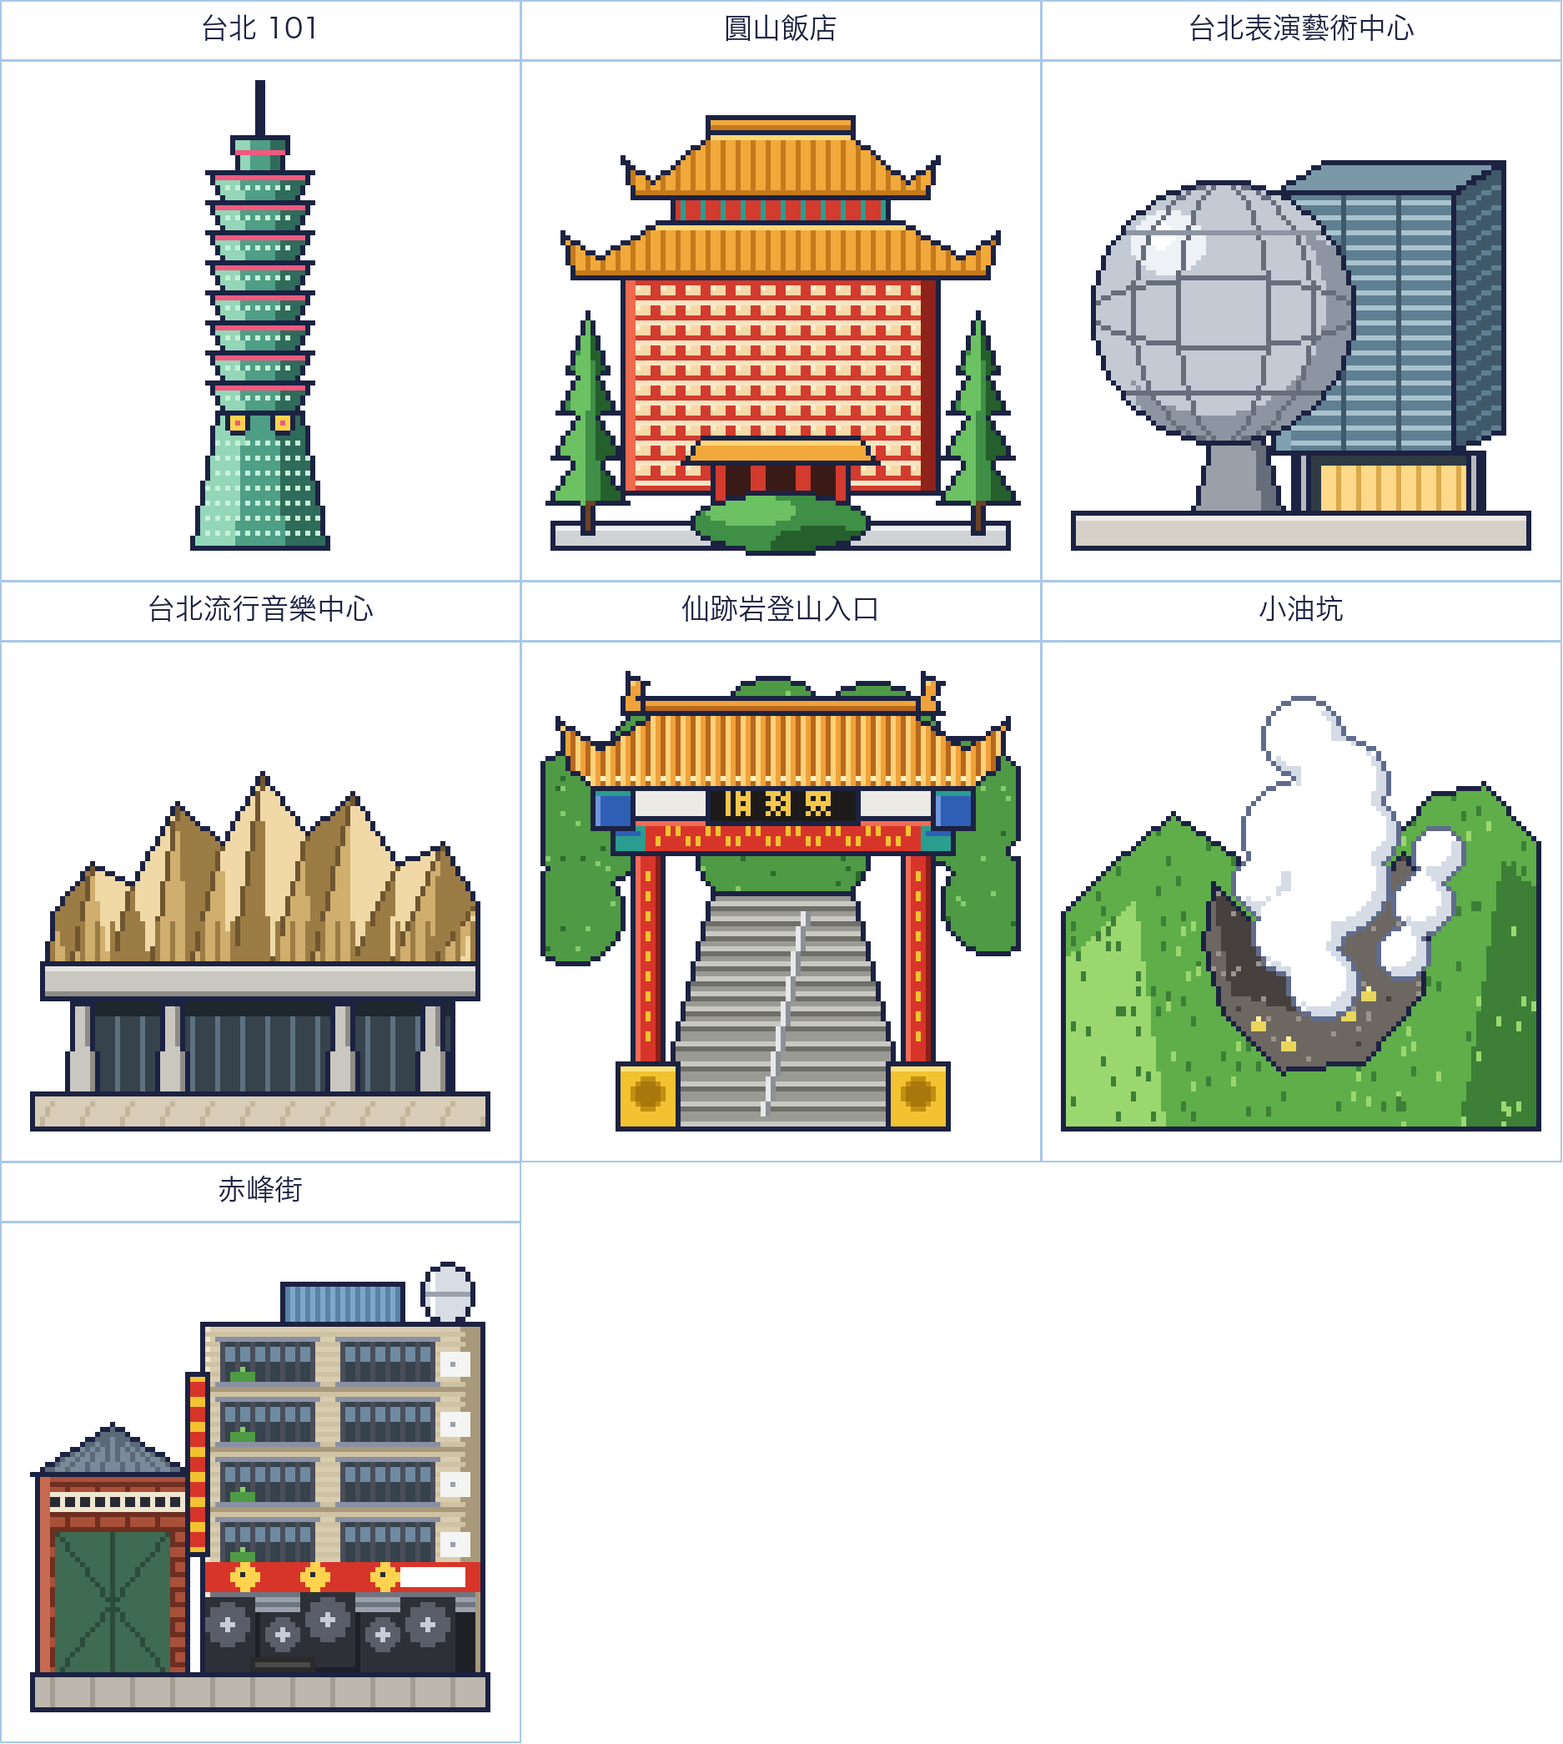
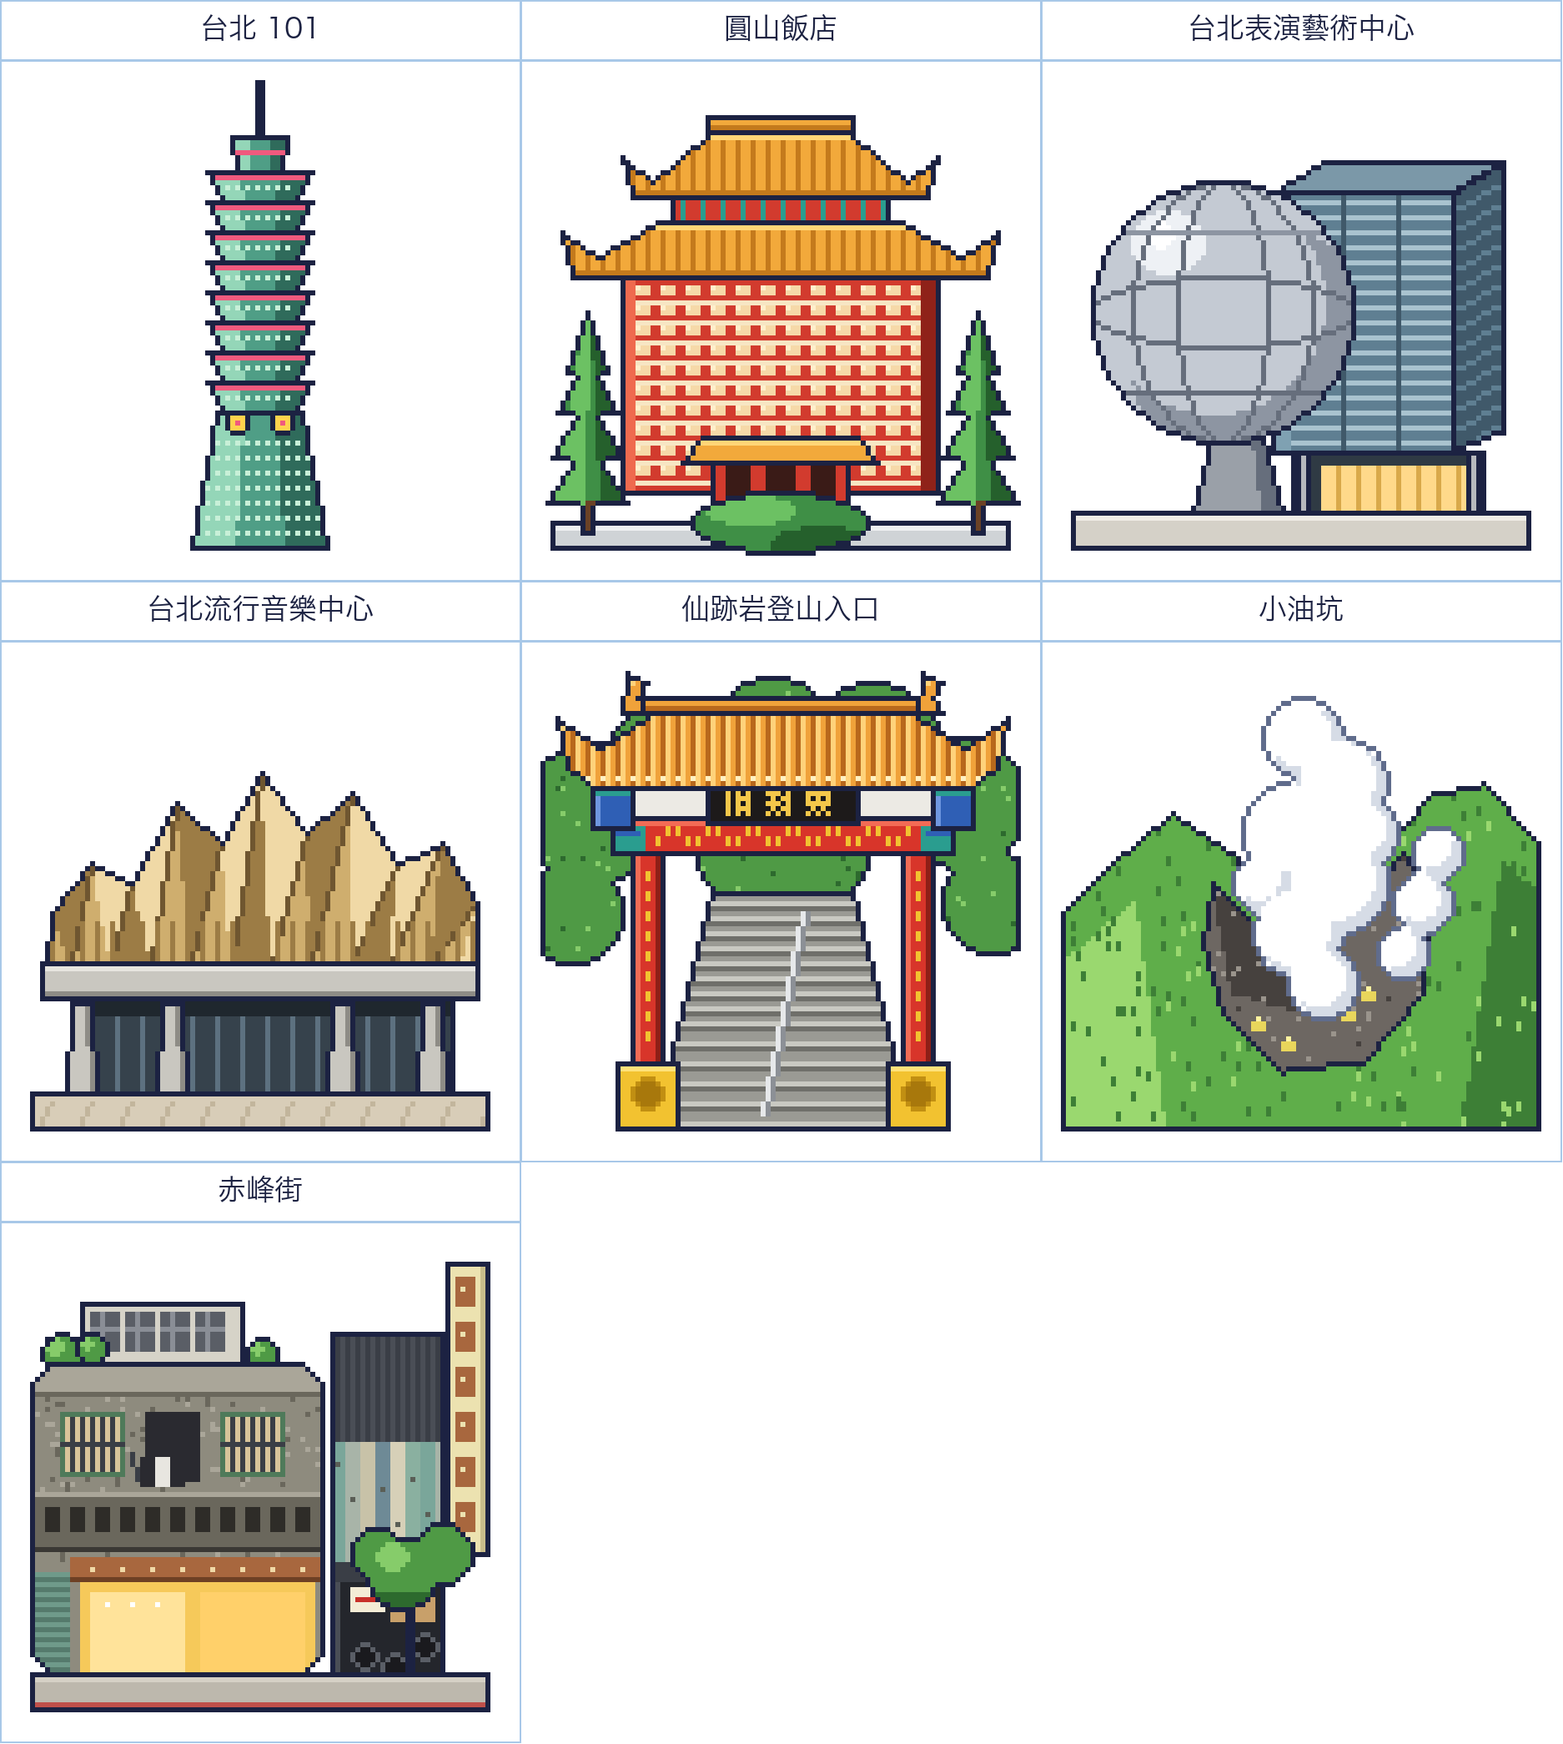
赤峰街關卡依實景照片重畫
- 地標：三層洗石子轉角老屋（綠框鐵窗、通風孔陽台、頂樓加蓋與植栽、一樓暖黃小店）、
  深灰浪板加舊木板拼貼的汽車材料行與米黃直式大招牌、路樹
- 街景新增 wood_shophouse（木格玻璃拉門、紅磚柱、綠色浪板雨遮）與 plant_balcony（陽台長滿植物、一樓咖啡店）
- 地面改為 alley：人行道紅線、柏油路白色箭頭；天空改陰天淡色

Changed region(s): [[0.0, 0.7153, 0.3404, 0.9952]]

diff --git a/landmarks.py b/landmarks.py
@@ -451,86 +451,105 @@ def xiaoyoukeng():
     return s.img
 
 
-# ---------------------------------------------------------------- 7. 赤峰街（老公寓一樓汽車音響行＋倉庫）
+# ---------------------------------------------------------------- 7. 赤峰街（洗石子轉角老屋＋汽車材料行）
 def chifeng():
     s = Sprite()
-    tile, tilel, tiled = c('#d9cdb0'), c('#efe6cf'), c('#a8997a')
-    brick, brickl, brickd = c('#a8503a'), c('#c86a50'), c('#6e2e20')
-    iron, ironl = c('#4a4e5a'), c('#8a90a4')
+    rnd = random.Random(7)
+    wash, washl, washd = c('#8e8b7e'), c('#aaa699'), c('#6a675c')         # 洗石子外牆
+    green = c('#4f7a5a')
+    leaf, leafl, leafd = c('#4f9a45'), c('#86cc6a'), c('#2d6a2e')
 
-    # 人行道
+    # 騎樓地坪
     s.part(lambda d: d.rectangle([2, 86, 93, 93], fill=c('#bdb8ad')),
-           lambda d, _: [d.line([x, 87, x, 93], fill=c('#a29d92')) for x in range(6, 96, 8)])
+           lambda d, _: (d.line([2, 87, 93, 87], fill=c('#d6d1c6')), d.line([2, 92, 93, 92], fill=c('#c0504a'))))
 
-    # 左：紅磚倉庫，鐵皮山牆屋頂、大拉門
-    s.part(lambda d: d.polygon([(2, 46), (18, 36), (34, 46)], fill=c('#7a8a9a')),
-           lambda d, _: [d.line([x, 46, 18, 36], fill=c('#5a6878')) for x in range(4, 34, 4)])
+    # ── 左：三層洗石子轉角老屋 ──
+    # 頂樓加蓋（格柵窗）與屋頂植栽
+    s.part(lambda d: d.rectangle([12, 12, 44, 24], fill=c('#d6d3c8')),
+           lambda d, _: [(d.rectangle([x, 14, x + 5, 21], fill=c('#5a5e66')),
+                          d.line([x, 17, x + 5, 17], fill=c('#8a8e96')), d.line([x + 2, 14, x + 2, 21], fill=c('#8a8e96')))
+                         for x in range(14, 42, 7)])
+    for (x, y, r) in [(8, 22, 4), (14, 21, 3), (48, 22, 3)]:
+        s.part(lambda d, x=x, y=y, r=r: d.ellipse([x - r, y - r, x + r, y + r], fill=leaf),
+               lambda d, _, x=x, y=y, r=r: d.ellipse([x - r + 1, y - r + 1, x, y], fill=leafl))
 
-    def wh(d):
-        d.rectangle([3, 46, 33, 86], fill=brick)
+    def house(d):
+        d.rounded_rectangle([2, 24, 60, 86], radius=6, fill=wash)
 
-    def wh_sh(d, _):
-        for y in range(48, 86, 3):
-            d.line([3, y, 33, y], fill=brickd)
-            for x in range(3 + (y // 3 % 2) * 3, 34, 6):
-                d.line([x, y + 1, x, y + 2], fill=brickd)
-        d.rectangle([3, 50, 33, 53], fill=c('#efe6cf'))                       # 白色字帶
-        for x in range(6, 31, 3):
-            d.rectangle([x, 51, x + 1, 52], fill=c('#2a2a34'))
-        d.rectangle([14, 40, 22, 44], fill=c('#ffd98a'))                      # 山牆小窗
-        d.rectangle([7, 58, 29, 86], fill=c('#3f6b52'))                       # 綠色大拉門
-        d.line([7, 58, 29, 86], fill=c('#2c4c3a')); d.line([29, 58, 7, 86], fill=c('#2c4c3a'))
-        d.line([18, 58, 18, 86], fill=c('#2c4c3a'))
-        d.rectangle([4, 47, 5, 85], fill=brickl)
-    s.part(wh, wh_sh)
+    def house_sh(d, _):
+        for _ in range(260):                                                 # 洗石子的顆粒
+            x, y = rnd.randrange(3, 60), rnd.randrange(25, 64)
+            d.point((x, y), fill=washl if rnd.random() < .5 else washd)
+        d.rectangle([2, 24, 60, 30], fill=washl)                             # 屋頂女兒牆（圓角）
+        d.line([2, 30, 60, 30], fill=washd)
+        # 三樓：綠框鐵窗、中間深色門洞
+        for wx in (8, 40):
+            d.rectangle([wx, 34, wx + 12, 46], fill=c('#d8c49a'))
+            d.rectangle([wx, 34, wx + 12, 46], outline=green)
+            for bx in range(wx + 2, wx + 12, 2):
+                d.line([bx, 35, bx, 45], fill=c('#3a3e46'))
+            d.line([wx, 40, wx + 12, 40], fill=c('#3a3e46'))
+        d.rectangle([25, 34, 35, 47], fill=c('#2a2a30'))
+        d.line([22, 42, 23, 47], fill=c('#3a3e46'))                         # 曬衣架與衣服
+        for x, col in [(24, '#2a2a30'), (27, '#e8e6e0'), (30, '#2a2a30')]:
+            d.rectangle([x, 43, x + 2, 48], fill=c(col))
+        # 二樓陽台：女兒牆上一排通風孔
+        d.rectangle([2, 50, 60, 60], fill=washd)
+        d.line([2, 50, 60, 50], fill=washl)
+        for x in range(5, 58, 5):
+            d.rectangle([x, 53, x + 2, 57], fill=c('#2e2c28'))
+        d.line([2, 61, 60, 61], fill=c('#3a3834'))
+        # 一樓：咖啡色遮陽棚、暖黃燈光的小店
+        d.rectangle([10, 63, 60, 67], fill=c('#a8673e'))
+        d.line([10, 67, 60, 67], fill=c('#6e4024'))
+        for x in range(14, 58, 6):
+            d.point((x, 65), fill=c('#f0d9a6'))
+        d.rectangle([12, 68, 58, 86], fill=c('#f6c95a'))
+        d.rectangle([14, 70, 32, 86], fill=c('#ffe39a'))
+        d.rectangle([36, 70, 56, 86], fill=c('#ffd06a'))
+        for x in (17, 22, 27):
+            d.point((x, 72), fill=c('#ffffff'))
+        d.rectangle([3, 66, 9, 86], fill=c('#6f9a8a'))                       # 旁邊的綠色鐵捲門
+        for y in range(67, 86, 2):
+            d.line([3, y, 9, y], fill=c('#557a6c'))
+    s.part(house, house_sh)
 
-    # 右：四層老公寓，頂樓加蓋與水塔
-    s.part(lambda d: d.rectangle([52, 8, 76, 16], fill=c('#7ea6c8')),
-           lambda d, _: [d.line([x, 8, x, 16], fill=c('#5a82a6')) for x in range(53, 76, 2)])
-    s.part(lambda d: d.ellipse([80, 4, 90, 16], fill=c('#d8dce4')),
-           lambda d, _: (d.line([82, 6, 82, 14], fill=c('#ffffff')), d.line([80, 10, 90, 10], fill=c('#9aa0ac'))))
+    # ── 右：深灰浪板＋舊木板拼貼外牆的汽車材料行 ──
+    def shop(d):
+        d.rectangle([62, 18, 84, 86], fill=c('#4a4e56'))
 
-    def apt(d):
-        d.rectangle([36, 16, 92, 86], fill=tile)
+    def shop_sh(d, _):
+        for x in range(63, 84, 2):
+            d.line([x, 18, x, 40], fill=c('#3a3e46'))                         # 浪板
+        planks = ['#7aa69a', '#a8b4a8', '#c8c2a8', '#6e8a96', '#d6d0b8', '#8ab0a0']
+        for k, x in enumerate(range(62, 84, 3)):                              # 舊木板拼貼
+            d.rectangle([x, 40, x + 2, 64], fill=c(planks[k % len(planks)]))
+            d.point((x + 1, 44 + (k * 7) % 16), fill=c('#5a5e56'))
+        d.rectangle([62, 64, 84, 67], fill=c('#3a3e46'))                     # 騎樓遮棚
+        d.rectangle([64, 68, 84, 86], fill=c('#24262c'))                     # 店內零件
+        for (x, y) in [(66, 80), (72, 82), (78, 78)]:
+            d.ellipse([x, y, x + 5, y + 5], fill=c('#1a1a1e'), outline=c('#5a5e66'))
+        d.rectangle([74, 70, 82, 75], fill=c('#c8a06a'))
+        d.rectangle([66, 69, 72, 73], fill=c('#f4ecd6'))                     # 小招牌
+        d.line([67, 71, 71, 71], fill=c('#c8302a'))
+    s.part(shop, shop_sh)
 
-    def apt_sh(d, _):
-        d.rectangle([88, 16, 92, 86], fill=tiled)
-        d.line([37, 16, 37, 86], fill=tilel)
-        for y in range(18, 66, 2):                                           # 磁磚縫
-            d.line([36, y, 88, y], fill=c('#cfc2a3'))
-        for fy in (18, 30, 42, 54):                                          # 每層：鐵窗、冷氣、盆栽
-            d.line([36, fy + 11, 92, fy + 11], fill=tiled)
-            for wx in (40, 64):
-                d.rectangle([wx, fy + 2, wx + 18, fy + 9], fill=c('#36424c'))
-                d.rectangle([wx + 1, fy + 3, wx + 17, fy + 5], fill=c('#6e8aa0'))
-                for bx in range(wx, wx + 19, 3):
-                    d.line([bx, fy + 1, bx, fy + 10], fill=iron)
-                d.line([wx - 1, fy + 1, wx + 19, fy + 1], fill=ironl)
-                d.line([wx - 1, fy + 10, wx + 19, fy + 10], fill=ironl)
-            d.rectangle([84, fy + 4, 89, fy + 8], fill=c('#f4f4f2'))           # 冷氣室外機
-            d.point((86, fy + 6), fill=c('#9aa0ac'))
-            d.rectangle([42, fy + 8, 46, fy + 9], fill=c('#4f9a45'))           # 盆栽
-            d.point((44, fy + 7), fill=c('#86cc6a'))
-        # 一樓：汽車音響行
-        d.rectangle([36, 64, 92, 69], fill=c('#d8352a'))                      # 紅色招牌
-        for x in (42, 56, 70):
-            d.ellipse([x, 64, x + 5, 69], fill=c('#ffd34d'))                  # 喇叭圖示
-            d.point((x + 2, 66), fill=c('#2a2a34'))
-        d.rectangle([76, 65, 88, 68], fill=c('#ffffff'))
-        d.rectangle([38, 70, 90, 86], fill=c('#1e2028'))                      # 店內
-        for y in range(70, 74):
-            d.line([38, y, 90, y], fill=c('#9aa0ac') if y % 2 else c('#6e7480'))   # 捲門拉上一半
-        for (x, y, r) in [(41, 76, 5), (52, 78, 4), (61, 75, 5), (72, 78, 4), (81, 76, 5)]:
-            d.rectangle([x - r, y - r, x + r, y + r + 4], fill=c('#2e3038'))
-            d.ellipse([x - r + 1, y - r + 1, x + r - 1, y + r - 1], fill=c('#5a5e6a'))
-            d.ellipse([x - 1, y - 1, x + 1, y + 1], fill=c('#c8ccd8'))
-        d.rectangle([46, 83, 58, 86], fill=c('#2a2a2a'))                      # 輪胎
-        d.line([47, 84, 57, 84], fill=c('#4a4a4a'))
-    s.part(apt, apt_sh)
+    # 大型直式招牌「汽車材料行」：米黃底、咖啡色字塊
+    def sign(d):
+        d.rectangle([85, 4, 93, 62], fill=c('#ece2b0'))
 
-    # 直式招牌
-    s.part(lambda d: d.rectangle([33, 26, 37, 62], fill=c('#f2c230')),
-           lambda d, _: [d.rectangle([34, y, 36, y + 2], fill=c('#d8352a')) for y in range(28, 61, 5)])
+    def sign_sh(d, _):
+        d.rectangle([92, 4, 93, 62], fill=c('#c8bc8a'))
+        for y in range(7, 60, 9):
+            d.rectangle([87, y, 90, y + 5], fill=c('#a8673e'))
+            d.point((88, y + 2), fill=c('#ece2b0'))
+    s.part(sign, sign_sh)
+    s.part(lambda d: d.rectangle([84, 30, 85, 31], fill=c('#4a4e56')))
+
+    # 路樹
+    s.part(lambda d: d.rectangle([77, 72, 78, 86], fill=c('#7a4a2a')))
+    s.part(lambda d: [d.ellipse([x - r, y - r, x + r, y + r], fill=leaf) for (x, y, r) in [(76, 66, 7), (84, 62, 6), (71, 62, 5)]],
+           lambda d, _: (d.ellipse([71, 60, 77, 65], fill=leafl), d.rectangle([69, 70, 90, 72], fill=leafd)))
     return s.img
 
 

diff --git a/scenes.py b/scenes.py
@@ -246,6 +246,20 @@ def ground(cv, style):
                 d.rectangle([x, y, x + w - 1, y + 4], outline=c('#5f5e59'))
                 d.line([x + 1, y + 1, x + w - 2, y + 1], fill=c('#b3b1a8'))
                 x += w
+    elif style == 'alley':
+        # 赤峰街：人行道邊的紅線，柏油路面偶爾有白色箭頭
+        d.rectangle([0, GY, W, H], fill=c('#6a6a6e'))
+        d.rectangle([0, GY, W, GY + 2], fill=c('#c8c4bc'))
+        d.line([0, GY, W, GY], fill=OUT)
+        d.line([0, GY + 3, W, GY + 3], fill=c('#c0504a'))
+        rnd = random.Random(8)
+        for _ in range(W // 2):
+            d.point((rnd.randrange(W), rnd.randrange(GY + 5, H)), fill=c('#58585c' if rnd.random() < .6 else '#7e7e82'))
+        for x in range(30, W, 120):
+            d.rectangle([x, GY + 7, x + 9, GY + 7], fill=c('#e8e8e4'))       # 白色箭頭
+            d.polygon([(x + 9, GY + 5), (x + 13, GY + 7), (x + 9, GY + 9)], fill=c('#e8e8e4'))
+        for x in range(70, W, 160):
+            d.rectangle([x, GY + 9, x + 8, GY + 10], fill=c('#4a4a4e'))      # 人孔蓋
     elif style == 'linepark':
         # 中山線形公園：草皮邊加灰色步道磚
         d.rectangle([0, GY, W, H], fill=c('#b9b4a8'))
@@ -456,25 +470,82 @@ def stage_xiaoyoukeng(cv):
     railing(cv)
 
 
+def wood_shophouse(cv, x, w, h=40, wall='#9a978c', seed=0):
+    """赤峰街的老店屋：二樓灰牆鐵窗加冷氣，綠色浪板雨遮，一樓木格玻璃拉門與紅磚柱。"""
+    top = GY - h
+    rnd = random.Random(seed)
+
+    def shape(d):
+        d.rectangle([x, top, x + w - 1, GY - 1], fill=c(wall))
+
+    def sh(d, _):
+        for _ in range(w * 2):                                               # 舊水泥牆的斑駁
+            d.point((x + rnd.randrange(w), top + rnd.randrange(h - 18)), fill=c('#7e7b70'))
+        d.line([x, top, x + w, top], fill=c('#b8b5aa'))
+        d.rectangle([x + 3, top + 5, x + w - 9, top + 13], fill=c('#3a3e46'))  # 鐵窗
+        for bx in range(x + 4, x + w - 9, 2):
+            d.line([bx, top + 5, bx, top + 13], fill=c('#8a8e96'))
+        d.rectangle([x + w - 7, top + 6, x + w - 3, top + 10], fill=c('#f0f0ee'))  # 冷氣
+        d.point((x + w - 5, top + 8), fill=c('#9aa0ac'))
+        d.rectangle([x, GY - 20, x + w - 1, GY - 18], fill=c('#5f8f6c'))     # 綠色浪板雨遮
+        for xx in range(x, x + w, 2):
+            d.point((xx, GY - 19), fill=c('#3f6b4e'))
+        d.rectangle([x, GY - 17, x + 2, GY - 1], fill=c('#b0503a'))         # 紅磚柱
+        for yy in range(GY - 16, GY, 2):
+            d.point((x + 1, yy), fill=c('#7a3528'))
+        d.rectangle([x + 3, GY - 17, x + w - 1, GY - 1], fill=c('#a8743f'))  # 木作立面
+        for xx in range(x + 3, x + w - 1, 6):                                # 木格玻璃拉門
+            d.rectangle([xx + 1, GY - 16, xx + 4, GY - 9], fill=c('#d6dcd8'))
+            d.line([xx + 1, GY - 13, xx + 4, GY - 13], fill=c('#7a4a22'))
+            d.line([xx + 2, GY - 16, xx + 2, GY - 9], fill=c('#7a4a22'))
+            d.rectangle([xx + 1, GY - 8, xx + 4, GY - 2], fill=c('#c08a4e'))
+            d.line([xx, GY - 17, xx, GY - 1], fill=c('#6e4024'))
+    cv.part(shape, sh)
+
+
+def plant_balcony(cv, x, w, h=50, wall='#e0d6a8', seed=0):
+    """陽台長滿植物的老公寓，一樓是暖黃燈光的咖啡店。"""
+    top = GY - h
+    rnd = random.Random(seed)
+
+    def shape(d):
+        d.rectangle([x, top, x + w - 1, GY - 1], fill=c(wall))
+
+    def sh(d, _):
+        for yy in range(top + 2, GY - 20, 3):                                # 馬賽克磁磚縫
+            d.line([x, yy, x + w, yy], fill=c('#c8be92'))
+        for fy in (top + 6, top + 20):                                       # 兩層陽台：欄杆＋滿出來的植物
+            d.rectangle([x + 1, fy + 6, x + w - 2, fy + 10], fill=c('#c8c2b0'))
+            for bx in range(x + 2, x + w - 2, 2):
+                d.line([bx, fy + 7, bx, fy + 10], fill=c('#8e897e'))
+            d.rectangle([x + 3, fy, x + w - 4, fy + 5], fill=c('#3a3e46'))
+            for _ in range(w // 2):
+                px, py = x + rnd.randrange(w), fy + rnd.randrange(-2, 7)
+                d.rectangle([px, py, px + 1, py + 1], fill=c('#4f9a45' if rnd.random() < .6 else '#86cc6a'))
+        d.rectangle([x, GY - 18, x + w - 1, GY - 1], fill=c('#3a3430'))     # 一樓咖啡店
+        d.rectangle([x + 2, GY - 15, x + w - 3, GY - 1], fill=c('#f2c46a'))
+        for xx in range(x + 3, x + w - 3, 4):
+            d.line([xx, GY - 15, xx, GY - 1], fill=c('#a87a3a'))
+        for xx in range(x + 4, x + w - 3, 6):                                # 吊燈
+            d.point((xx, GY - 17), fill=c('#ffe39a'))
+        d.rectangle([x + w - 6, GY - 8, x + w - 3, GY - 3], fill=c('#2a2a2a'))   # 菜單黑板
+    cv.part(shape, sh)
+
+
 def stage_chifeng(cv):
-    # 赤峰街＋中山線形公園：老公寓、汽車音響行、倉庫，前景是線形公園的大樹
-    sky(cv, ['#6a8fc8', '#86a4d2', '#a8b8d6', '#d4c4bc', '#f0d4ac'])
-    clouds(cv, [(20, 16, 1), (150, 10, 1)])
-    skyline(cv, GY, '#a3a6b4', 71, hmin=14, hmax=40, wmin=8, wmax=14)
-    building(cv, 0, 22, 50, '#d6c8a8', '#a8997a', '#efe6cf', '#4a5563', seed=13, grille=True, tank=True,
-             signs=[(15, 8, 18, '#d8352a')])
-    building(cv, 23, 18, 42, '#c8d0c4', '#97a294', '#e8eee6', '#4a5563', seed=14, grille=True, tank=True,
-             signs=[(2, 6, 14, '#f2c230')])
-    building(cv, 156, 20, 46, '#e2c8b0', '#b0947a', '#f6e4d2', '#4a5563', seed=15, grille=True, tank=True,
-             signs=[(3, 4, 16, '#2fb3a3'), (12, 10, 12, '#d8352a')])
-    building(cv, 177, 16, 38, '#d6d0c4', '#a8a294', '#f0ece4', '#4a5563', seed=16, grille=True, arcade=True)
+    # 赤峰街：灰撲撲的老店屋、木格拉門的汽機車零件行、陽台長滿植物的老公寓，陰天的淡色天空
+    sky(cv, ['#c2ccd4', '#cfd7dc', '#dce1e3', '#e6e9e8', '#eeefea'])
+    skyline(cv, GY, '#b6b4ac', 71, hmin=16, hmax=46, wmin=8, wmax=14)
+    plant_balcony(cv, 0, 26, 50, seed=1)
+    wood_shophouse(cv, 27, 24, 38, seed=2)
     landmark(cv, LM.chifeng, 52)
-    for x in (44, 152):
-        tree(cv, x, 2, ('#3f8f46', '#6cc163', '#25602c'))
-    lamp(cv, 150, lit=True)
-    scooter(cv, 160, '#3f7fd0')
-    scooter(cv, 176, '#e04848')
-    ground(cv, 'linepark')
+    wood_shophouse(cv, 149, 22, 36, wall='#8e8b80', seed=3)
+    plant_balcony(cv, 172, 20, 46, wall='#d8cfb8', seed=4)
+    scooter(cv, 30, '#9ab8e0')
+    scooter(cv, 152, '#e04848')
+    tree(cv, 4, 2, ('#3f8f46', '#6cc163', '#25602c'))   # 中山線形公園的路樹
+    lamp(cv, 168)
+    ground(cv, 'alley')
 
 
 STAGES = [

diff --git a/build_game.py b/build_game.py
@@ -23,7 +23,7 @@ TILES = 5                 # 遠景橫向是原場景的幾倍寬
 EXTRA_TOP = 30            # 遠景上方多畫的天空（基準像素），跳高時鏡頭往上才看得到
 STYLE = {S.stage_101: 'city', S.stage_hotel: 'park', S.stage_tpac: 'city',
          S.stage_music: 'plaza', S.stage_xianjiyan: 'stone', S.stage_xiaoyoukeng: 'boardwalk',
-         S.stage_chifeng: 'linepark'}
+         S.stage_chifeng: 'alley'}
 
 
 BACKDROP = ['sky', 'clouds', 'mountains', 'skyline', 'ground', 'railing']   # 跨整個寬度的遠景
